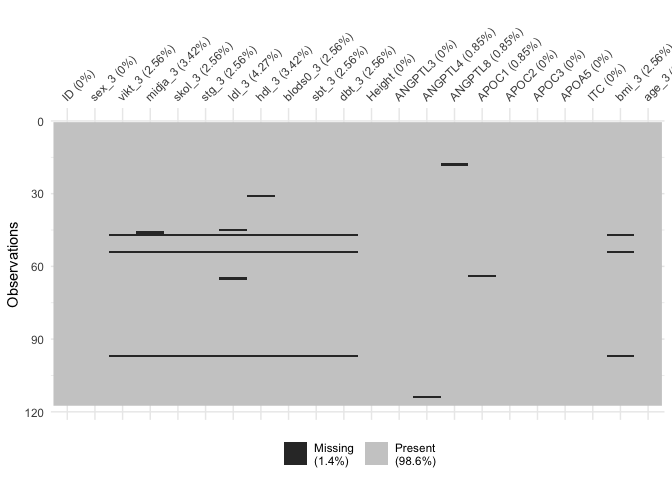
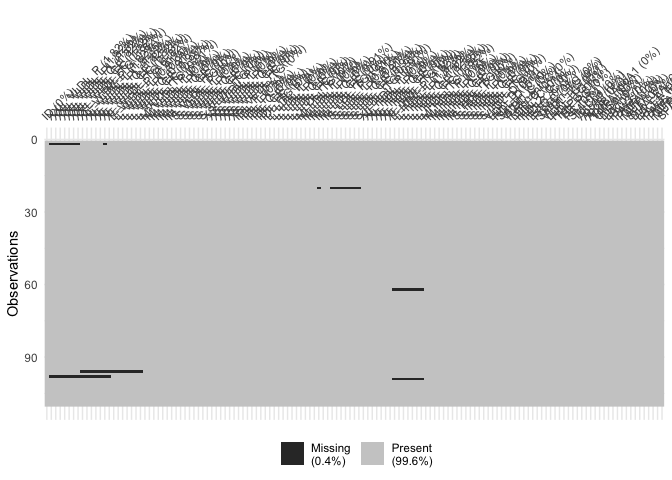
fin commit 0.2

diff --git a/README.md b/README.md
@@ -62,20 +62,17 @@ file](https://github.com/fredlandfors/VIPVIZA-LPL/blob/master/out/table_S1-2.xls
 
     ## [1] 117  22
 
-    ##        ID     sex_3    Height   ANGPTL3     APOC2     APOC3     APOA5       ITC 
-    ## 0.0000000 0.0000000 0.0000000 0.0000000 0.0000000 0.0000000 0.0000000 0.0000000 
-    ##     age_3   ANGPTL4   ANGPTL8     APOC1    vikt_3    skol_3     stg_3  blods0_3 
-    ## 0.0000000 0.8547009 0.8547009 0.8547009 2.5641026 2.5641026 2.5641026 2.5641026 
-    ##     sbt_3     dbt_3     bmi_3   midja_3     hdl_3     ldl_3 
-    ## 2.5641026 2.5641026 2.5641026 3.4188034 3.4188034 4.2735043
-
 ![](README_files/figure-gfm/unnamed-chunk-4-1.png)<!-- -->
 
 ### B. Post-imputation diagnostics
 
-    ## NULL
+    ## Warning: Removed 58 rows containing missing values (geom_point).
 
-    ## NULL
+![](README_files/figure-gfm/unnamed-chunk-5-1.png)<!-- -->
+
+    ## Warning: Removed 58 rows containing non-finite values (stat_density).
+
+![](README_files/figure-gfm/unnamed-chunk-5-2.png)<!-- -->
 
 ### C. Outlier analysis
 
